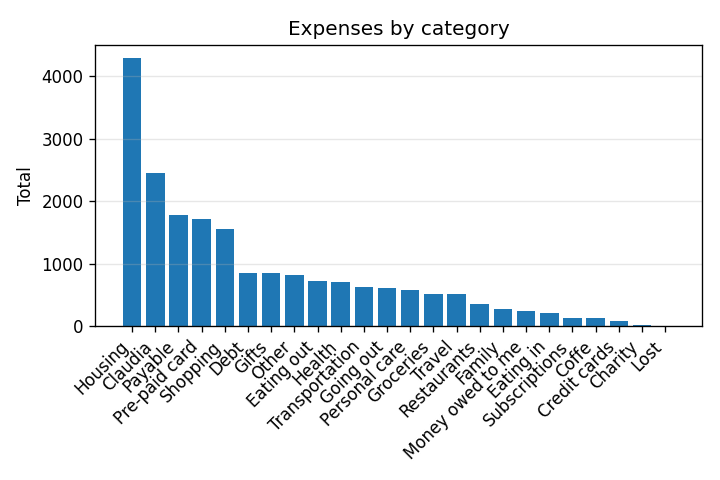
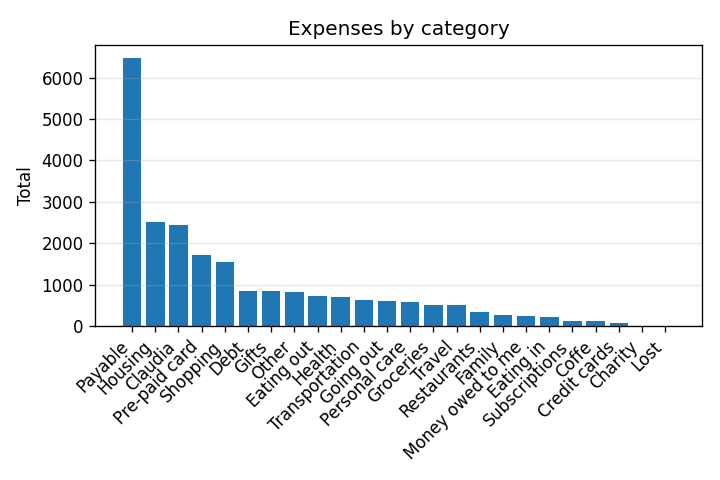
.

diff --git a/money_manager/web/templates/expense_project_detail.html b/money_manager/web/templates/expense_project_detail.html
@@ -7,7 +7,7 @@
     <a href="{{ url_for('expense_projects.expense_projects_page') }}" class="back-link">← Expense Projects</a>
     <h2>{{ project.name }}</h2>
     <p>
-      Real transactions are counted as money already spent. Planned items are future expected costs
+      Real expense and income transactions are counted in this sheet. Planned items are future expected costs
       and stay outside your net balance until you pay all or part of them.
     </p>
   </div>
@@ -15,16 +15,24 @@
 
 <section class="summary expense-project-summary detail-summary">
   <div class="summary-card expense">
-    <h3>Actual spent</h3>
+    <h3>Actual expenses</h3>
     <p>{{ '%.2f'|format(project.actual_spent) }}</p>
+  </div>
+  <div class="summary-card income">
+    <h3>Income / recoveries</h3>
+    <p>{{ '%.2f'|format(project.actual_income) }}</p>
+  </div>
+  <div class="summary-card neutral">
+    <h3>Net project cost</h3>
+    <p>{{ '%.2f'|format(project.actual_net_cost) }}</p>
   </div>
   <div class="summary-card pending">
     <h3>Expected left</h3>
     <p>{{ '%.2f'|format(project.remaining_expected) }}</p>
   </div>
-  <div class="summary-card neutral">
-    <h3>Project forecast</h3>
-    <p>{{ '%.2f'|format(project.forecast_total) }}</p>
+  <div class="summary-card pending">
+    <h3>Forecast net cost</h3>
+    <p>{{ '%.2f'|format(project.forecast_net_total) }}</p>
   </div>
   <div class="summary-card neutral">
     <h3>Main net now</h3>
@@ -145,20 +153,20 @@
       <div>
         <span class="eyebrow">Real movement</span>
         <h3>Attach existing transaction</h3>
-        <p>Add past expenses that already exist in Transactions.</p>
+        <p>Add past expenses or incomes that already exist in Transactions.</p>
       </div>
     </div>
     <form method="post" class="expense-project-form compact-project-form">
       <input type="hidden" name="action" value="attach_transaction">
       <div class="form-field form-field-wide">
-        <label>Expense transaction</label>
+        <label>Expense or income transaction</label>
         <select name="transaction_key" required>
           <option value="">Choose a transaction...</option>
           {% for tx in transaction_candidates %}
             <option value="{{ tx.key }}">{{ tx.label }}</option>
           {% endfor %}
         </select>
-        <small>Category matches are shown first, then recent expenses.</small>
+        <small>Category/project matches are shown first, then recent expenses and incomes.</small>
       </div>
       <div class="form-field form-field-wide">
         <label>Note</label>
@@ -283,7 +291,7 @@
     <div>
       <span class="eyebrow">Actuals</span>
       <h3>Attached real transactions</h3>
-      <p>These already affect your net balance because they are real expenses.</p>
+      <p>These already affect your net balance because they are real expenses or incomes.</p>
     </div>
   </div>
   {% if actual_movements %}
@@ -291,6 +299,7 @@
     <thead>
       <tr>
         <th>Date</th>
+        <th>Type</th>
         <th>Category</th>
         <th>Description</th>
         <th>Account</th>
@@ -303,10 +312,11 @@
       {% for tx in actual_movements %}
       <tr>
         <td>{{ tx.date }}</td>
+        <td><span class="pill {{ tx.amount_class }}">{{ tx.type_label }}</span></td>
         <td>{{ tx.category }}{% if tx.sub_category %}<br><small>{{ tx.sub_category }}</small>{% endif %}</td>
         <td>{{ tx.description }}{% if tx.note %}<br><small>{{ tx.note }}</small>{% endif %}</td>
         <td>{{ tx.account or 'Main bank' }}</td>
-        <td class="amount expense">€ {{ '%.2f'|format(tx.amount) }}</td>
+        <td class="amount {{ tx.amount_class }}">{{ tx.amount_sign }} € {{ '%.2f'|format(tx.amount) }}</td>
         <td>{{ 'Planned payment' if tx.source == 'planned_payment' else 'Manual link' }}</td>
         <td>
           <form method="post">

diff --git a/money_manager/web/templates/expense_projects.html b/money_manager/web/templates/expense_projects.html
@@ -7,24 +7,32 @@
     <h2>Expense Projects</h2>
     <p>
       Create a separate sheet for a big category of spending, like <strong>Construction 2026</strong>.
-      You can attach real transactions and add future expected costs. Expected costs do not touch
-      your net balance until you pay them.
+      You can attach real expense and income transactions and add future expected costs.
+      Expected costs do not touch your net balance until you pay them.
     </p>
   </div>
 </section>
 
 <section class="summary expense-project-summary">
   <div class="summary-card expense">
-    <h3>Actual spent</h3>
+    <h3>Actual expenses</h3>
     <p>{{ '%.2f'|format(totals.actual_spent) }}</p>
+  </div>
+  <div class="summary-card income">
+    <h3>Income / recoveries</h3>
+    <p>{{ '%.2f'|format(totals.actual_income) }}</p>
+  </div>
+  <div class="summary-card neutral">
+    <h3>Net actual cost</h3>
+    <p>{{ '%.2f'|format(totals.actual_net_cost) }}</p>
   </div>
   <div class="summary-card pending">
     <h3>Still expected</h3>
     <p>{{ '%.2f'|format(totals.remaining_expected) }}</p>
   </div>
-  <div class="summary-card neutral">
-    <h3>Forecast total</h3>
-    <p>{{ '%.2f'|format(totals.forecast_total) }}</p>
+  <div class="summary-card pending">
+    <h3>Forecast net cost</h3>
+    <p>{{ '%.2f'|format(totals.forecast_net_total) }}</p>
   </div>
   <div class="summary-card income">
     <h3>Active sheets</h3>
@@ -79,15 +87,17 @@
     </div>
 
     <div class="expense-project-metrics">
-      <div><span>Spent</span><strong>€ {{ '%.2f'|format(project.actual_spent) }}</strong></div>
+      <div><span>Expenses</span><strong>€ {{ '%.2f'|format(project.actual_spent) }}</strong></div>
+      <div><span>Income</span><strong>€ {{ '%.2f'|format(project.actual_income) }}</strong></div>
+      <div><span>Net cost</span><strong>€ {{ '%.2f'|format(project.actual_net_cost) }}</strong></div>
       <div><span>Expected left</span><strong>€ {{ '%.2f'|format(project.remaining_expected) }}</strong></div>
-      <div><span>Forecast</span><strong>€ {{ '%.2f'|format(project.forecast_total) }}</strong></div>
+      <div><span>Forecast net</span><strong>€ {{ '%.2f'|format(project.forecast_net_total) }}</strong></div>
     </div>
 
     <div class="progress-wrap progress-wrap-expense">
       <div class="progress-bar progress-bar-expense" style="width: {{ project.progress }}%"></div>
     </div>
-    <small>{{ '%.0f'|format(project.progress) }}% already paid against current forecast · {{ project.movement_count }} real movements · {{ project.planned_count }} planned items</small>
+    <small>{{ '%.0f'|format(project.progress) }}% of gross costs already paid · {{ project.expense_movement_count }} expenses · {{ project.income_movement_count }} incomes · {{ project.planned_count }} planned items</small>
 
     <form method="post" class="expense-project-inline-actions">
       <input type="hidden" name="action" value="update_project">

diff --git a/money_manager/services/expense_project_service.py b/money_manager/services/expense_project_service.py
@@ -204,11 +204,15 @@ def planned_item_by_id(item_id: int) -> dict | None:
 def overview_context() -> dict:
     df = load_transactions()
     projects = [_enrich_project_summary(project, df) for project in load_projects()]
+    active_projects = [project for project in projects if project.get("status") == "active"]
     totals = {
         "actual_spent": sum(project["actual_spent"] for project in projects),
-        "remaining_expected": sum(project["remaining_expected"] for project in projects if project.get("status") == "active"),
-        "forecast_total": sum(project["forecast_total"] for project in projects if project.get("status") == "active"),
-        "active_count": sum(1 for project in projects if project.get("status") == "active"),
+        "actual_income": sum(project["actual_income"] for project in projects),
+        "actual_net_cost": sum(project["actual_net_cost"] for project in projects),
+        "remaining_expected": sum(project["remaining_expected"] for project in active_projects),
+        "forecast_total": sum(project["forecast_total"] for project in active_projects),
+        "forecast_net_total": sum(project["forecast_net_total"] for project in active_projects),
+        "active_count": len(active_projects),
         "count": len(projects),
     }
     return {
@@ -260,18 +264,26 @@ def _enrich_project_summary(project: dict, df: pd.DataFrame) -> dict:
     project_id = _safe_int(project.get("id")) or 0
     actual = _project_actual_movements(project_id, df)
     planned = _project_planned_items(project_id)
-    actual_spent = sum(row["amount"] for row in actual)
+    actual_spent = sum(row["amount"] for row in actual if row.get("transaction_type") == "expense")
+    actual_income = sum(row["amount"] for row in actual if row.get("transaction_type") == "income")
+    actual_net_cost = actual_spent - actual_income
     planned_original = sum(row["original_amount"] for row in planned)
     planned_remaining = sum(row["remaining_amount"] for row in planned if row.get("status") == "active")
     planned_paid = sum(row["paid_amount"] for row in planned)
     forecast_total = actual_spent + planned_remaining
+    forecast_net_total = actual_net_cost + planned_remaining
     project.update({
         "actual_spent": float(actual_spent),
+        "actual_income": float(actual_income),
+        "actual_net_cost": float(actual_net_cost),
         "planned_original": float(planned_original),
         "planned_paid": float(planned_paid),
         "remaining_expected": float(planned_remaining),
         "forecast_total": float(forecast_total),
+        "forecast_net_total": float(forecast_net_total),
         "movement_count": len(actual),
+        "income_movement_count": sum(1 for row in actual if row.get("transaction_type") == "income"),
+        "expense_movement_count": sum(1 for row in actual if row.get("transaction_type") == "expense"),
         "planned_count": len(planned),
         "progress": 0.0 if forecast_total <= 0 else min(100.0, actual_spent / forecast_total * 100.0),
     })
@@ -286,12 +298,19 @@ def _project_actual_movements(project_id: int, df: pd.DataFrame) -> list[dict]:
         if row is None:
             continue
         amount = _amount(row.get("amount"))
-        tx_type = str(row.get("type", movement.get("transaction_type", "")))
-        signed_amount = _amount(row.get("signed_amount")) if "signed_amount" in row else amount
+        tx_type = str(row.get("type", movement.get("transaction_type", ""))).casefold()
+        if tx_type not in {"expense", "income"}:
+            # Expense project sheets track real spending and money coming back in.
+            # Investments/transfers can stay in the main Transactions page.
+            continue
+        signed_amount = amount if tx_type == "income" else -amount
         rows.append({
             "movement_id": movement.get("id"),
             "transaction_id": movement.get("transaction_id"),
             "transaction_type": tx_type,
+            "type_label": "Income" if tx_type == "income" else "Expense",
+            "amount_class": "income" if tx_type == "income" else "expense",
+            "amount_sign": "+" if tx_type == "income" else "-",
             "date": _date_str(row.get("date")),
             "category": _clean(row.get("category", "")),
             "sub_category": _clean(row.get("sub_category", "")),
@@ -330,24 +349,37 @@ def _transaction_candidates(project: dict, df: pd.DataFrame, already_attached: l
         return []
     attached = {(str(row.get("transaction_type")), str(row.get("transaction_id"))) for row in already_attached}
     project_category = str(project.get("category", "")).casefold()
-    expenses = df[df.get("type", pd.Series(dtype=str)).astype(str).str.casefold().eq("expense")].copy()
-    if expenses.empty:
+    project_name = str(project.get("name", "")).casefold()
+    tx_type_series = df.get("type", pd.Series(dtype=str)).astype(str).str.casefold()
+    movements = df[tx_type_series.isin(["expense", "income"])].copy()
+    if movements.empty:
         return []
-    expenses["date_sort"] = pd.to_datetime(expenses["date"], errors="coerce")
+    movements["date_sort"] = pd.to_datetime(movements["date"], errors="coerce")
 
-    # Put category matches first, then newest expenses. This keeps the dropdown useful
-    # for a Construction 2026 page without hiding manual additions from other categories.
-    expenses["category_match"] = expenses["category"].fillna("").astype(str).str.casefold().eq(project_category)
-    expenses = expenses.sort_values(by=["category_match", "date_sort"], ascending=[False, False]).head(150)
+    # Put project/category matches first, then newest movements. This keeps a
+    # Construction 2026 sheet useful while still allowing reimbursements/incomes
+    # from other categories to be attached manually.
+    category_text = movements["category"].fillna("").astype(str).str.casefold()
+    sub_text = movements["sub_category"].fillna("").astype(str).str.casefold()
+    desc_text = movements["description"].fillna("").astype(str).str.casefold()
+    movements["category_match"] = category_text.eq(project_category)
+    movements["project_text_match"] = False
+    if project_name:
+        movements["project_text_match"] = desc_text.str.contains(project_name, regex=False) | sub_text.str.contains(project_name, regex=False)
+    movements = movements.sort_values(
+        by=["category_match", "project_text_match", "date_sort"],
+        ascending=[False, False, False],
+    ).head(200)
 
     candidates = []
-    for _, row in expenses.iterrows():
-        tx_type = str(row.get("type", "expense"))
+    for _, row in movements.iterrows():
+        tx_type = str(row.get("type", "expense")).casefold()
         tx_id = str(row.get("id", ""))
         if (tx_type, tx_id) in attached:
             continue
         amount = _amount(row.get("amount"))
-        label = f"{_date_str(row.get('date'))} · € {amount:.2f} · {_clean(row.get('category', ''))}"
+        label_prefix = "Income +" if tx_type == "income" else "Expense -"
+        label = f"{label_prefix} · {_date_str(row.get('date'))} · € {amount:.2f} · {_clean(row.get('category', ''))}"
         sub = _clean(row.get("sub_category", ""))
         desc = _clean(row.get("description", ""))
         if sub:
@@ -358,7 +390,9 @@ def _transaction_candidates(project: dict, df: pd.DataFrame, already_attached: l
             "key": f"{tx_type}:{tx_id}",
             "label": label,
             "amount": amount,
+            "type": tx_type,
             "category_match": bool(row.get("category_match")),
+            "project_text_match": bool(row.get("project_text_match")),
         })
     return candidates
 